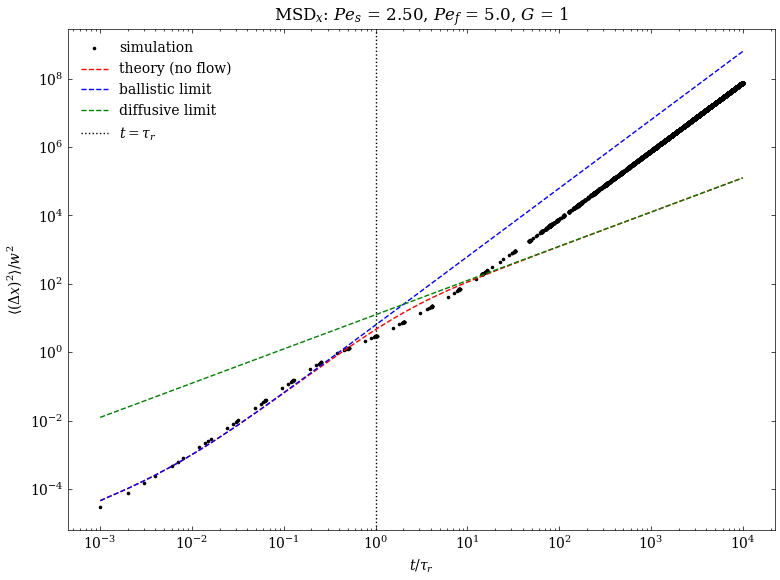
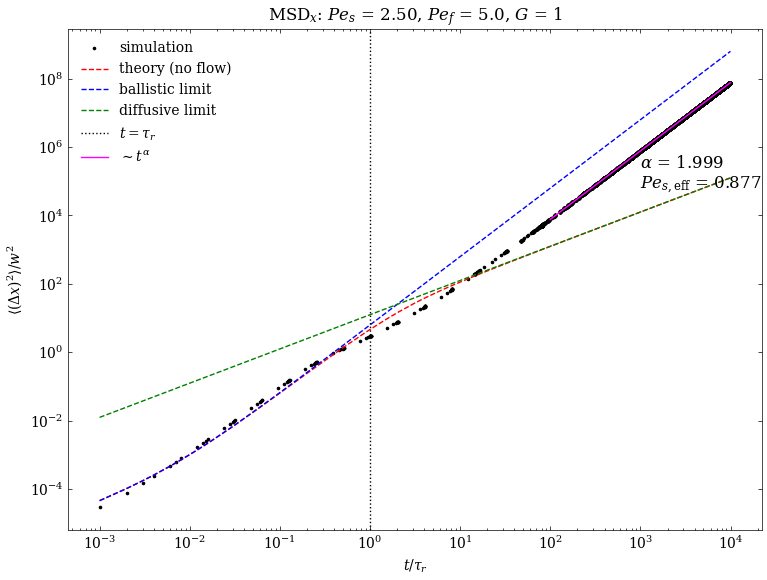
sync for phase diagrams

diff --git a/abp.py b/abp.py
@@ -23,7 +23,7 @@ vorticity = 1
 noise_r = 1
 arrow_spacing = 100
 centre_start = False
-show_traps = True
+show_traps = False
 show_arrows = False
 
 @njit
@@ -631,7 +631,6 @@ class ABP:
 
         # Plot regular trajectory with optional traps
         fig = plt.figure(figsize=[8, 6])
-        plt.title(f"Trajectory: $l_p/w$ = {self.Ps}, $Pe_f/Pe_s$ = {np.round(self.Pf/self.Ps, 6)}, $G$ = {self.G}")
 
         # Show start and end points of trajectory
         plt.scatter(start_x, start_y, color='lime', s=20, zorder=1)
@@ -642,9 +641,9 @@ class ABP:
             # Show traps
             plt.scatter(x[trap_start], y[trap_start], color='cyan', s=15, zorder=1)
             plt.scatter(x[trap_end], y[trap_end], color='orange', s=15, zorder=1)
-            plt.title(f"Trajectory (traps): $l_p/w$ = {self.Ps}, $Pe_f/Pe_s$ = {np.round(self.Pf/self.Ps, 6)}, $G$ = {self.G}")
+            plt.title(f"Trajectory (traps): $Pe_s$ = {self.Ps}, $Pe_f$ = {self.Ps}, $G$ = {self.G}")
         else:
-            plt.title(f"Trajectory: $l_p/w$ = {self.Ps}, $Pe_f/Pe_s$ = {np.round(self.Pf/self.Ps, 6)}, $G$ = {self.G}")
+            plt.title(f"Trajectory: $Pe_s$ = {self.Ps}, $Pe_f$ = {self.Ps}, $G$ = {self.G}")
 
         plt.scatter(x, y, color='black', marker='.', s=1, zorder=-1)
         plt.plot(x, y, color='black', zorder=-1, alpha=0.5)
@@ -656,7 +655,7 @@ class ABP:
 
         if 1 == 2:
             fig = plt.figure(figsize=[8, 6])
-            plt.title(f"Trajectory (bulk): $l_p/w$ = {self.Ps}, $Pe_f/Pe_s$ = {np.round(self.Pf/self.Ps, 6)}, $G$ = {self.G}")
+            plt.title(f"Trajectory (bulk): $Pe_s$ = {self.Ps}, $Pe_f$ = {self.Ps}, $G$ = {self.G}")
     
             # Show start and end points of trajectory
             plt.scatter(start_x, start_y, color='lime', s=20, zorder=1)
@@ -677,7 +676,7 @@ class ABP:
         # Show trajectory with orientation directions overlaid
         if show_arrows:
             fig = plt.figure(figsize=[8, 6])
-            plt.title(f"Trajectory: $l_p/w$ = {self.Ps}, $Pe_f/Pe_s$ = {np.round(self.Pf/self.Ps, 6)}, $G$ = {self.G}")
+            plt.title(f"Trajectory: $Pe_s$ = {self.Ps}, $Pe_f$ = {self.Ps}, $G$ = {self.G}")
             
             # Show start and end points
             plt.scatter(start_x, start_y, color='lime', s=20, zorder=1)

diff --git a/workstation/array/get stats.py b/workstation/array/get stats.py
@@ -127,7 +127,7 @@ def get_lags(filename, offset):
     # Save to npz file
     np.savez(filename, lags)
 
-def get_MSD(folder, output, dt, dim, offset, lagsfile):
+def get_MSD(folder, output, dt, dim, offset, lagsfile, Ps, Pf):
     """
     Calculate the MSD in one dimension for a given combination of Peclet numbers by
     averaging over every available time interval, save output to file.
@@ -139,6 +139,8 @@ def get_MSD(folder, output, dt, dim, offset, lagsfile):
         dim: dimension along which to calculate MSD (0 = x, 1 = y)
         offset: how many blocks of data to skip at the start of each trajectory
         lagsfile: input file containing the unique measurement time intervals
+        Ps: swim Peclet number
+        Pf: flow Peclet number
     """
     # Read in and reshape position data
     x = get_data(folder, dim, offset)
@@ -182,8 +184,10 @@ def get_MSD(folder, output, dt, dim, offset, lagsfile):
     msd = msd_sum / count
     times = lags * dt
 
+    # Get path to output
+    filename = f"{output}/{Ps} {Pf}.txt"
     # Save to file
-    np.savetxt(output, np.column_stack((times, msd)), header='time MSD')
+    np.savetxt(filename, np.column_stack((times, msd)), header='time MSD')
 
 def get_old_MSD(folder, Ps, Pf, output, dt, dim, offset, timechain):
     """
@@ -368,7 +372,7 @@ if __name__ == "__main__":
     if args.lag:
         get_lags(args.o, args.off)
     elif args.MSD:
-        get_MSD(args.F, args.o, args.dt, args.d, args.off, args.f)
+        get_MSD(args.F, args.o, args.dt, args.d, args.off, args.f, args.Ps, args.Pf)
     elif args.ppMSD:
         get_particle_MSD(args.F, args.o, args.dt, args.d, args.off, args.f, args.s)
     elif args.old:

diff --git a/abp_analysis.py b/abp_analysis.py
@@ -200,7 +200,7 @@ def phase_diagram_vx(filename):
             Pf = Pf_list[mvx_list == max_nmvx][0]
             Pf_stairs[i] = Pf + inc
 
-    plt.stairs(Pf_stairs, edges, color='black', label=r'$\langle v_x \rangle \rightarrow 0$')
+    #plt.stairs(Pf_stairs, edges, color='black', label=r'$\langle v_x \rangle \rightarrow 0$')
     plt.ylim(bottom=inc)
 
     plt.legend()
@@ -238,9 +238,9 @@ def phase_diagram_alpha(filename):
     plt.ylabel("$Pe_f$")
 
     # Plot values as text
-    for Ps, Pf, a in zip(x, y, alpha):
-        if Pf == (2 * Ps - 1):
-            plt.text(Ps, Pf, f"{np.round(a, 3)}", ha='center', va='center', fontsize=8)
+    #for Ps, Pf, a in zip(x, y, alpha):
+    #    if Pf == (2 * Ps - 1):
+    #        plt.text(Ps, Pf, f"{np.round(a, 3)}", ha='center', va='center', fontsize=8)
 
     plt.tight_layout()
     plt.show()

diff --git a/workstation/array/abp_analysis2.py b/workstation/array/abp_analysis2.py
@@ -174,13 +174,17 @@ def plot_PDFs(G, Ps, Pf):
 
     # Construct instantaneous velocity PDF
     pdfvx, edgesvx = np.histogram(VX/float(Ps), bins=num_bins, density=True)
+    # Calculate mean velocity
+    vx_mean = np.mean(VX) / float(Ps)
 
     fig = plt.figure(figsize=[8, 6])
     plt.stairs(pdfvx, edgesvx, color='black')
     plt.title(f"Velocity PDF: $Pe_s$ = {Ps}, $Pe_f$ = {Pf}, $G$ = {G}")
     plt.xlabel("$v_x/v_0$")
     plt.ylabel("$P(v_x/v_0)$")
-    plt.axvline(0, linestyle='dotted', color='black')
+    plt.axvline(0, linestyle='dotted', color='black', label='$v_x = 0$')
+    plt.axvline(vx_mean, linestyle='dashed', color='black', label=r'$\langle v_x \rangle / v_0$ ' + f'= {np.round(vx_mean, 3)}')
+    plt.legend(loc='upper left')
     plt.tight_layout()
 
     plt.show()
